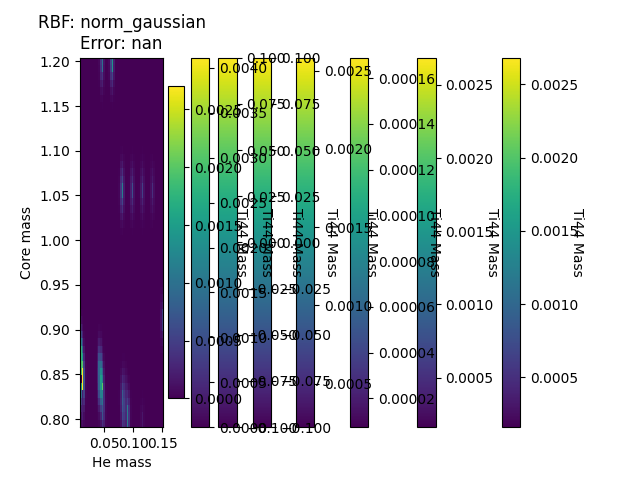
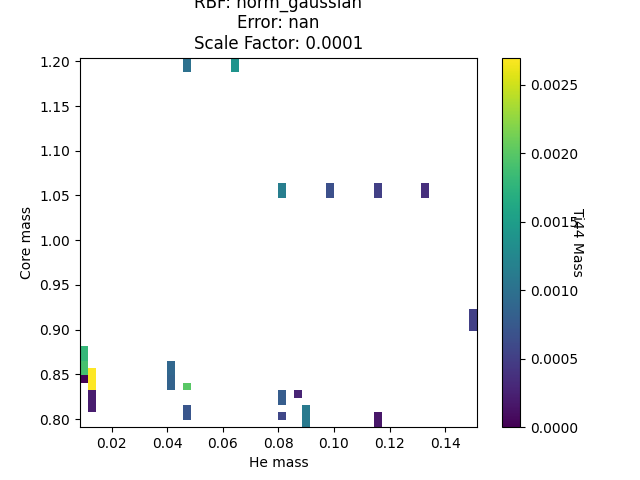
added optimal scale factor and fixed faulty repeating colorbars

diff --git a/Interpolation Code/rbf_interp/rbf_interp_test.py b/Interpolation Code/rbf_interp/rbf_interp_test.py
@@ -57,7 +57,8 @@ for i in range(len(funcs)):
         # plotting configuration 
         plt.pcolormesh(he_arr, co_arr, ti_interp_tab)
         plt.colorbar().set_label("Ti44 Mass", rotation=270) 
-        plt.title(f"RBF: {label}\nError: {error}") 
+        plt.title(f"RBF: {label}\nError: {error}\nScale Factor: {ti_interp.scale}") 
         plt.xlabel("He mass") 
         plt.ylabel("Core mass") 
         plt.savefig("../../Plots/rbf_interp_plots/" + label)
+        plt.close("all") 
